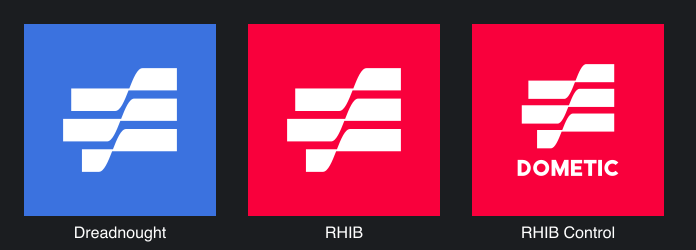
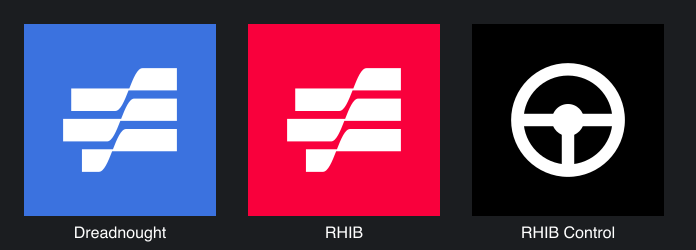
feat: show a steering wheel for RHIB Control (MAR-188)
RHIB Control's launcher icon is now a white three-spoke steering wheel
on black, replacing the red Blue Water mark with DOMETIC. Dreadnought
and RHIB keep the Blue Water mark. The unused lettering code is gone
from the icon script.

Changed region(s): [[0.6638, 0.084, 0.9655, 0.868]]

diff --git a/scripts/launcher_icons.py b/scripts/launcher_icons.py
@@ -1,7 +1,8 @@
-"""Generate the launcher icon VectorDrawables from the Blue Water mark.
+"""Generate the launcher icon VectorDrawables.
 
-The mark was traced from blw.ai's 256 px app icon. Coordinates below use that
-image's pixel grid. Run from the repository root:
+Dreadnought and RHIB show the Blue Water mark, traced from blw.ai's 256 px app
+icon; its coordinates below use that image's pixel grid. RHIB Control shows a
+steering wheel. Run from the repository root:
 
     python3 scripts/launcher_icons.py [--preview preview.svg]
 
@@ -63,59 +64,6 @@ def _stripe(k):
 MARK = [_stripe(k) for k in range(3)]
 
 
-# Geometric capitals with cap height 10 and 2.4 stems. Holes wind opposite to
-# their outlines because android:fillType needs API 24 and minSdk is 23.
-def _rect(x0, y0, x1, y1):
-    return [("M", [(x0, y0)]), ("H", x1), ("V", y1), ("H", x0), ("Z", None)]
-
-
-def _polygon(points):
-    return [("M", [points[0]])] + [("L", [p]) for p in points[1:]] + [("Z", None)]
-
-
-def _arc(radius, large, sweep, end):
-    return ("A", (radius, large, sweep, end))
-
-
-def _glyphs():
-    cos, sin = math.cos(math.radians(42)), math.sin(math.radians(42))
-    return {
-        "D": (8.2, [("M", [(0, 0)]), ("H", 3.2), _arc(5, 0, 1, (3.2, 10)), ("H", 0), ("Z", None),
-                    ("M", [(2.4, 2.2)]), ("V", 7.8), ("H", 3.2), _arc(2.8, 0, 0, (3.2, 2.2)),
-                    ("Z", None)]),
-        "O": (10.0, [("M", [(5, 0)]), _arc(5, 1, 1, (5, 10)), _arc(5, 1, 1, (5, 0)), ("Z", None),
-                     ("M", [(5, 2.3)]), _arc(2.7, 1, 0, (5, 7.7)), _arc(2.7, 1, 0, (5, 2.3)),
-                     ("Z", None)]),
-        "M": (10.6, _polygon([(0, 10), (0, 0), (2.7, 0), (5.3, 6.0), (7.9, 0), (10.6, 0),
-                              (10.6, 10), (8.2, 10), (8.2, 4.59), (5.856, 10), (4.744, 10),
-                              (2.4, 4.59), (2.4, 10)])),
-        "E": (7.0, _rect(0, 0, 2.4, 10) + _rect(0, 0, 7, 2.2) + _rect(0, 3.95, 6.4, 6.05)
-              + _rect(0, 7.8, 7, 10)),
-        "T": (8.0, _rect(0, 0, 8, 2.2) + _rect(2.8, 0, 5.2, 10)),
-        "I": (2.4, _rect(0, 0, 2.4, 10)),
-        "C": (5 + 5 * cos, [("M", [(5 + 5 * cos, 5 - 5 * sin)]), _arc(5, 1, 0, (5 + 5 * cos, 5 + 5 * sin)),
-                            ("L", [(5 + 2.7 * cos, 5 + 2.7 * sin)]),
-                            _arc(2.7, 1, 1, (5 + 2.7 * cos, 5 - 2.7 * sin)), ("Z", None)]),
-    }
-
-
-# Tighter spacing beside T, whose crossbar leaves open space below.
-GAPS = {"DO": 1.5, "OM": 1.5, "ME": 1.5, "ET": 1.0, "TI": 1.0, "IC": 1.5}
-
-
-def _word(text):
-    glyphs = _glyphs()
-    x = 0.0
-    placed = []
-    for i, letter in enumerate(text):
-        width, commands = glyphs[letter]
-        placed.append((x, commands))
-        x += width
-        if i + 1 < len(text):
-            x += GAPS[text[i:i + 2]]
-    return placed, x
-
-
 def _number(value):
     text = ("%.2f" % value).rstrip("0").rstrip(".")
     return "0" if text == "-0" else text
@@ -126,44 +74,52 @@ def _path_data(commands, scale, dx, dy):
     y = lambda v: _number(v * scale + dy)
     out = []
     for command, args in commands:
-        if command in "ML":
-            out.append(command + x(args[0][0]) + "," + y(args[0][1]))
+        if command == "M":
+            out.append("M" + x(args[0][0]) + "," + y(args[0][1]))
         elif command == "H":
             out.append("H" + x(args))
         elif command == "V":
             out.append("V" + y(args))
         elif command == "C":
             out.append("C" + " ".join(x(p[0]) + "," + y(p[1]) for p in args))
-        elif command == "A":
-            radius, large, sweep, end = args
-            r = _number(radius * scale)
-            out.append(f"A{r},{r} 0 {large},{sweep} {x(end[0])},{y(end[1])}")
         else:
             out.append("Z")
     return "".join(out)
 
 
-def icon_paths(label=None):
-    """Return foreground path data for a 108 x 108 viewport, centered."""
+def mark_paths():
+    """Return the Blue Water mark centered in a 108 x 108 viewport."""
     x0, y0, x1, y1 = MARK_BOX
     width, height = x1 - x0, y1 - y0
-    if label is None:
-        scale = 64 / width
-        top = 54 - height * scale / 2
-    else:
-        scale = 52 / width
-        cap, gap = 9.0, 6.5
-        top = (108 - (height * scale + gap + cap)) / 2
+    scale = 64 / width
     dx = 54 - (x0 + width / 2) * scale
-    paths = [_path_data(stripe, scale, dx, top - y0 * scale) for stripe in MARK]
-    if label is not None:
-        letters, text_width = _word(label)
-        size = cap / 10
-        left = 54 - text_width * size / 2
-        baseline_top = top + height * scale + gap
-        paths += [_path_data(commands, size, left + gx * size, baseline_top)
-                  for gx, commands in letters]
-    return paths
+    dy = 54 - (y0 + height / 2) * scale
+    return [_path_data(stripe, scale, dx, dy) for stripe in MARK]
+
+
+# Holes wind opposite to their outlines because android:fillType needs API 24
+# and minSdk is 23.
+def _circle(radius, clockwise=True):
+    sweep = 1 if clockwise else 0
+    r = _number(radius)
+    top, bottom = _number(54 - radius), _number(54 + radius)
+    return f"M54,{top}A{r},{r} 0 1,{sweep} 54,{bottom}A{r},{r} 0 1,{sweep} 54,{top}Z"
+
+
+def _spoke(degrees, length, width):
+    angle = math.radians(degrees)
+    ux, uy = math.cos(angle), math.sin(angle)
+    px, py = -uy * width / 2, ux * width / 2
+    corners = [(54 + px, 54 + py), (54 + ux * length + px, 54 + uy * length + py),
+               (54 + ux * length - px, 54 + uy * length - py), (54 - px, 54 - py)]
+    return "M" + "L".join(_number(cx) + "," + _number(cy) for cx, cy in corners) + "Z"
+
+
+def wheel_paths():
+    """Return a three-spoke steering wheel centered in a 108 x 108 viewport."""
+    rim = _circle(32) + _circle(25, clockwise=False)
+    spokes = [_spoke(degrees, 26, 7) for degrees in (180, 0, 90)]
+    return [rim, _circle(9)] + spokes
 
 
 def vector_drawable(paths):
@@ -182,21 +138,21 @@ def vector_drawable(paths):
 
 
 ICONS = {
-    # Dreadnought and RHIB share the plain mark; their colors differ by flavor.
-    Path("app/src/main/res/drawable/ic_launcher.xml"): None,
-    Path("app/src/rhibControl/res/drawable/ic_launcher.xml"): "DOMETIC",
+    # Dreadnought and RHIB share the mark; their colors differ by flavor.
+    Path("app/src/main/res/drawable/ic_launcher.xml"): mark_paths,
+    Path("app/src/rhibControl/res/drawable/ic_launcher.xml"): wheel_paths,
 }
 
 
 def preview(path):
-    tiles = [("Dreadnought", "#3B72DF", None), ("RHIB", "#F9003C", None),
-             ("RHIB Control", "#F9003C", "DOMETIC")]
+    tiles = [("Dreadnought", "#3B72DF", mark_paths), ("RHIB", "#F9003C", mark_paths),
+             ("RHIB Control", "#000000", wheel_paths)]
     parts = ['<svg xmlns="http://www.w3.org/2000/svg" width="696" height="250" '
              'font-family="Helvetica, Arial, sans-serif">', '<rect width="696" height="250" fill="#1b1d20"/>']
-    for i, (name, background, label) in enumerate(tiles):
+    for i, (name, background, paths) in enumerate(tiles):
         x = 24 + i * 224
         body = f'<rect width="108" height="108" fill="{background}"/>' + "".join(
-            f'<path fill="#FFFFFF" d="{d}"/>' for d in icon_paths(label))
+            f'<path fill="#FFFFFF" d="{d}"/>' for d in paths())
         parts.append(f'<svg x="{x}" y="24" width="192" height="192" viewBox="0 0 108 108">{body}</svg>')
         parts.append(f'<text x="{x + 96}" y="238" fill="#ffffff" font-size="16" text-anchor="middle">{name}</text>')
     parts.append("</svg>")
@@ -207,9 +163,9 @@ def main():
     parser = argparse.ArgumentParser(description=__doc__.splitlines()[0])
     parser.add_argument("--preview", help="also write an SVG preview of all three icons")
     args = parser.parse_args()
-    for target, label in ICONS.items():
+    for target, paths in ICONS.items():
         target.parent.mkdir(parents=True, exist_ok=True)
-        target.write_text(vector_drawable(icon_paths(label)))
+        target.write_text(vector_drawable(paths()))
     if args.preview:
         preview(args.preview)
 

diff --git a/docs/validation-0.2.2.md b/docs/validation-0.2.2.md
@@ -2,16 +2,15 @@
 
 Changed on 2026-10-21.
 
-- Replaced the shared placeholder icon with the Blue Water mark from blw.ai:
-  - Dreadnought: white on BWA Blue `#3B72DF`.
-  - RHIB: white on blw.ai's red `#F9003C`.
-  - RHIB Control: the same red, with DOMETIC under the mark.
+- Replaced the shared placeholder icon:
+  - Dreadnought: Blue Water mark, white on BWA Blue `#3B72DF`.
+  - RHIB: Blue Water mark, white on blw.ai's red `#F9003C`.
+  - RHIB Control: a white steering wheel on black.
 - The mark was traced from blw.ai's 256 px app icon. Rendered back at 256 px,
   0.85% of its edge pixels differ from the original by more than half intensity,
   which is anti-aliasing rather than shape error.
-- `scripts/launcher_icons.py` generates the VectorDrawables. The lettering is
-  drawn as shapes, so no font file is embedded. Holes use opposite winding
-  because `android:fillType` requires API 24 and the minimum is API 23.
+- `scripts/launcher_icons.py` generates the VectorDrawables. Holes use opposite
+  winding because `android:fillType` requires API 24 and the minimum is API 23.
 - Bumped the version to 0.2.2 (local version code 5).
 
 ![Launcher icons](screenshots/launcher-icons.png)

diff --git a/README.md b/README.md
@@ -206,11 +206,11 @@ device acceptance testing.
 
 ## Launcher icons
 
-Each app shows the Blue Water mark from blw.ai: white on BWA Blue (`#3B72DF`) for
-Dreadnought, and white on the site's red (`#F9003C`) for RHIB and RHIB Control.
-RHIB Control adds DOMETIC under the mark. Colors are set in each flavor's
-`res/values/colors.xml`. A new portal gets the blue icon unless its flavor
-overrides `launcher_background`.
+Dreadnought and RHIB show the Blue Water mark from blw.ai, white on BWA Blue
+(`#3B72DF`) and on the site's red (`#F9003C`) respectively. RHIB Control shows a
+white steering wheel on black. Colors are set in each flavor's
+`res/values/colors.xml`. A new portal gets the blue Blue Water icon unless its
+flavor overrides `launcher_background` or the drawable.
 
 The VectorDrawables are generated; edit `scripts/launcher_icons.py`, not the XML:
 
